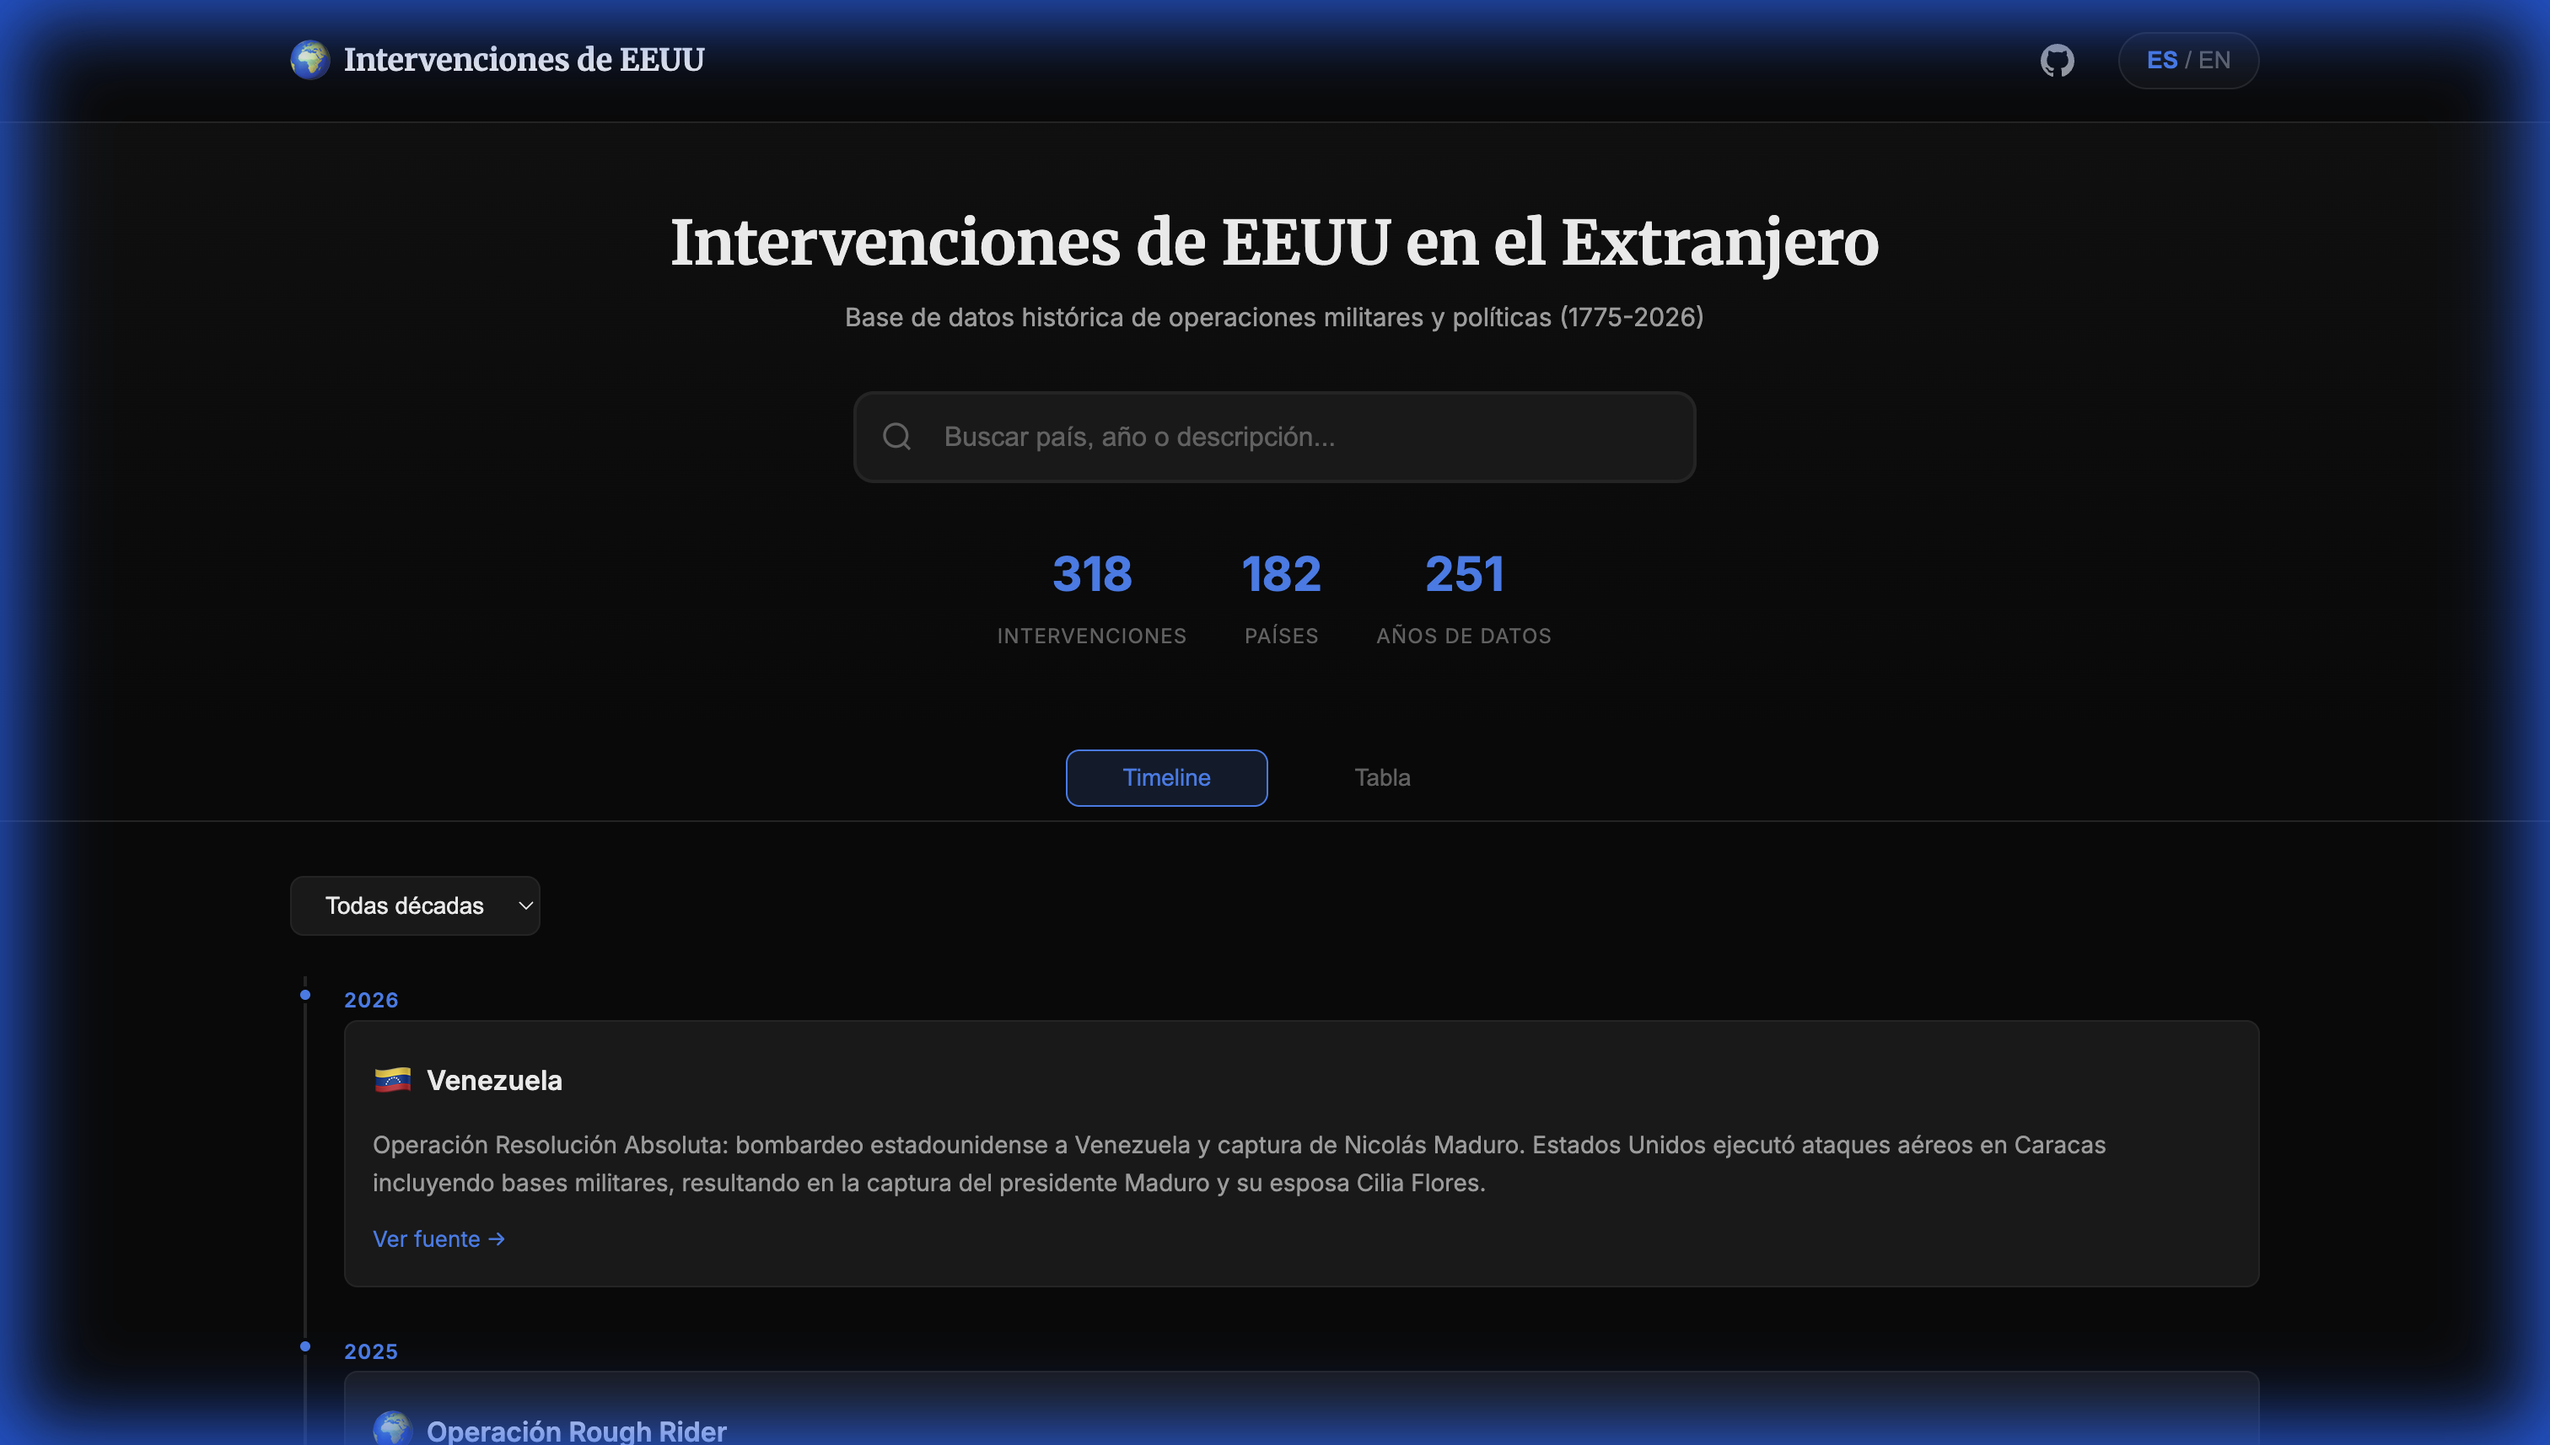
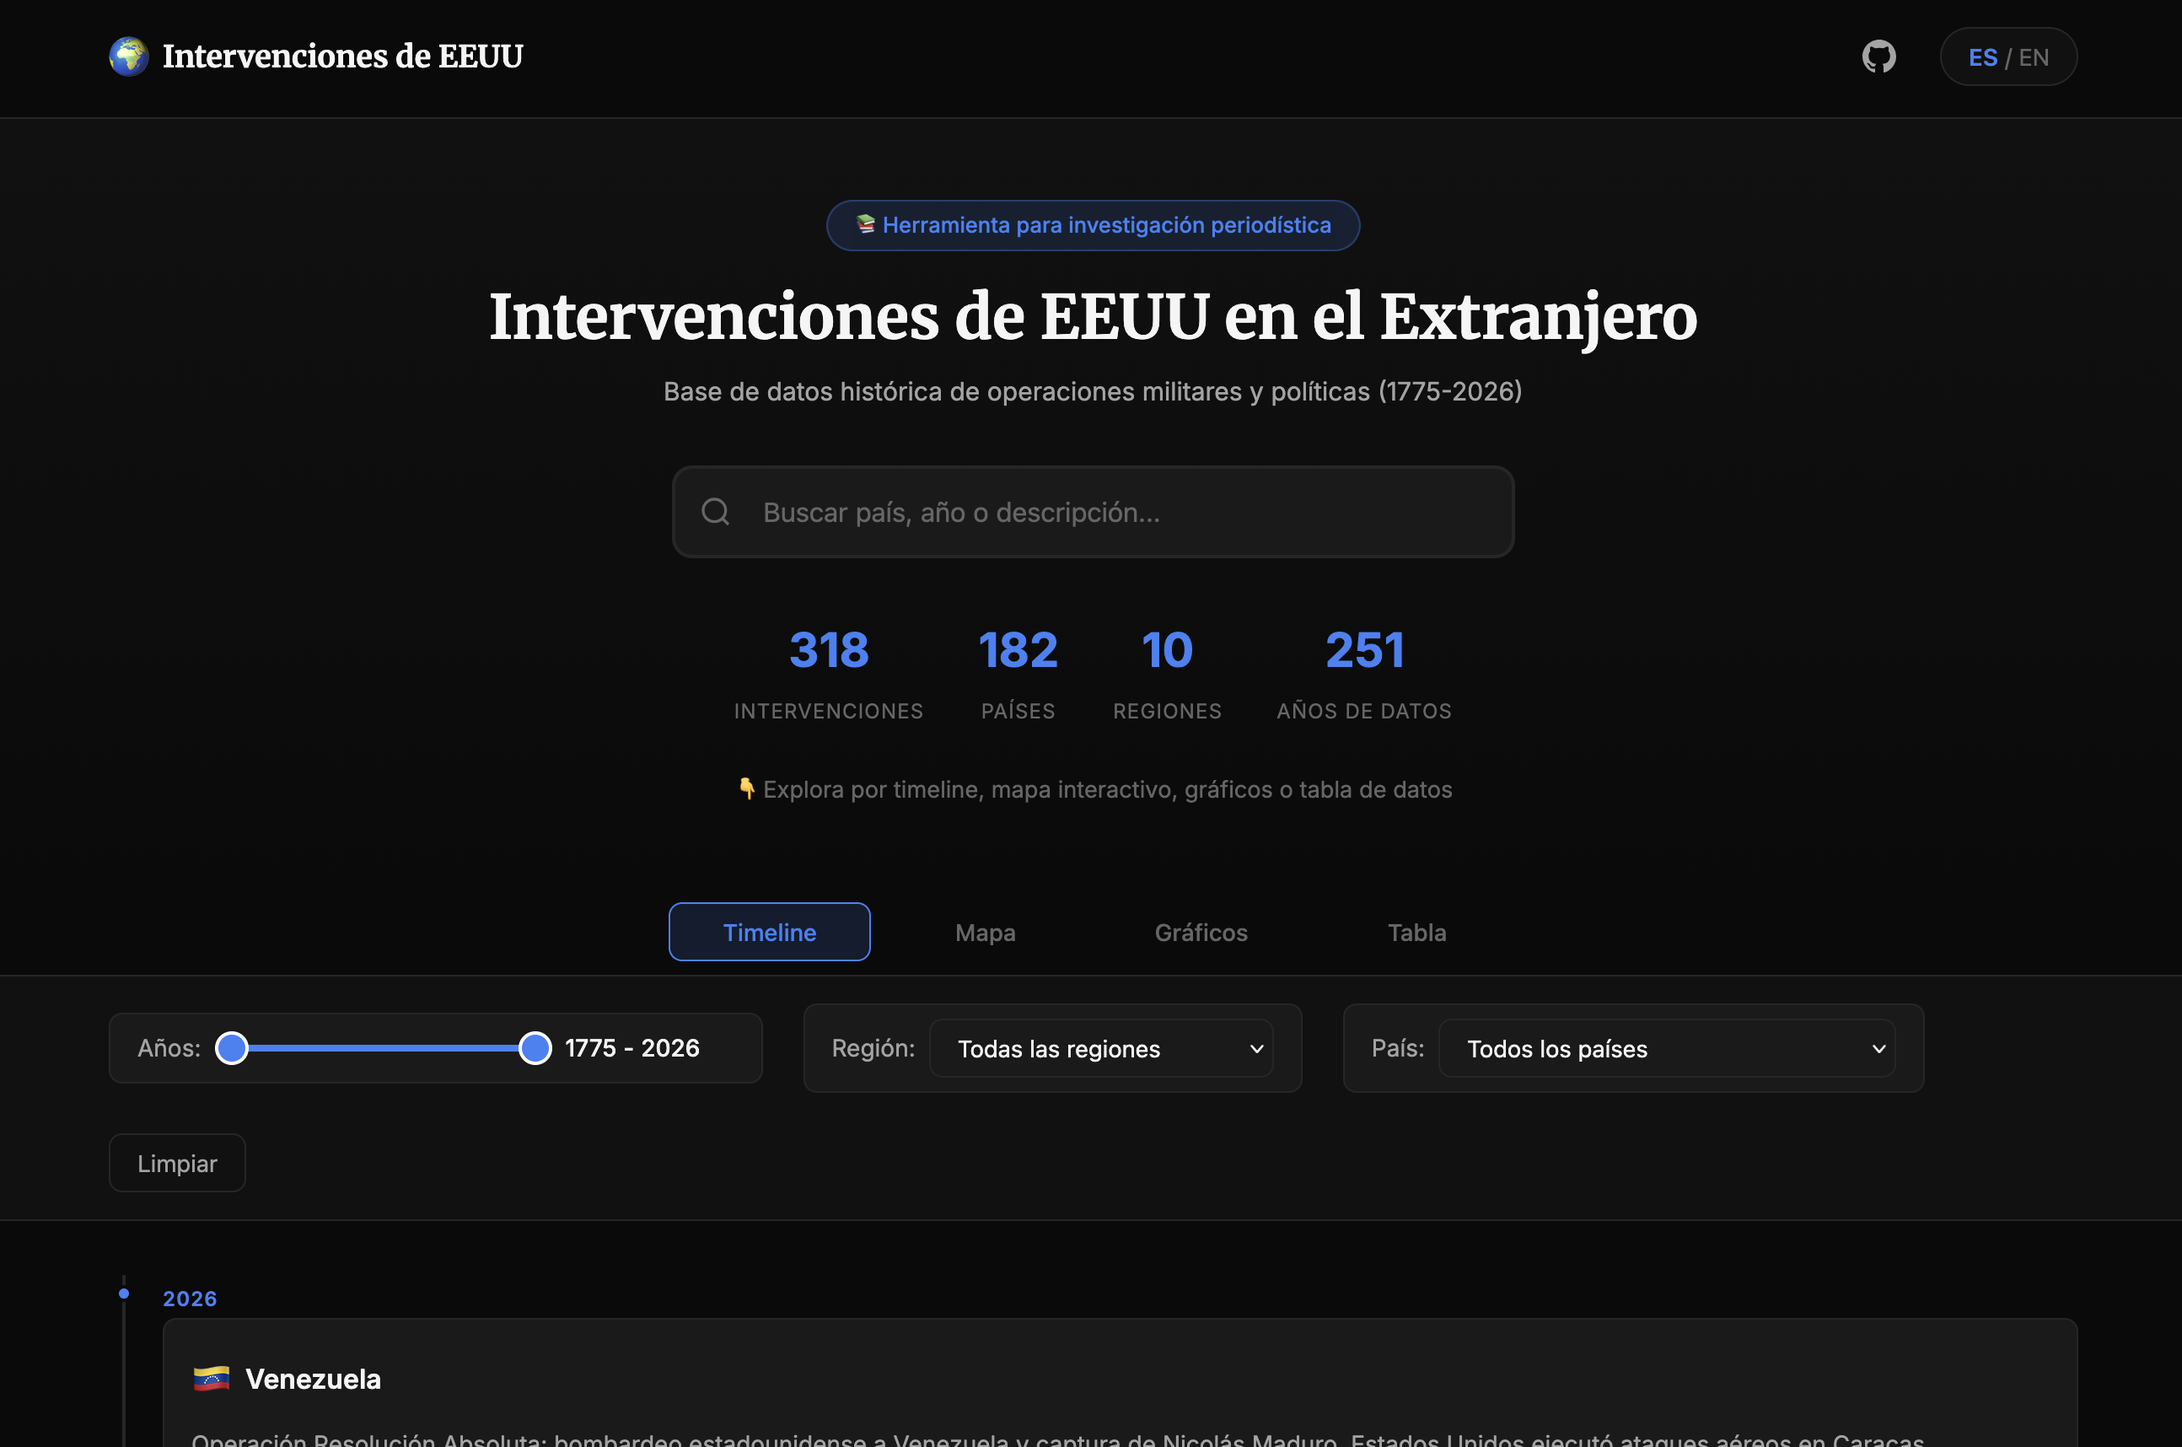
fixes and screenshot

diff --git a/app.js b/app.js
@@ -14,6 +14,7 @@ let translations = {};
 let currentPage = 1;
 let currentTab = 'timeline';
 const ITEMS_PER_PAGE = 10;
+let currentSort = { column: 'year_start', direction: 'desc' };
 
 // Expose currentLang globally for charts.js
 window.currentLang = currentLang;
@@ -283,6 +284,9 @@ function initializeFilters() {
     if (clearBtn) {
         clearBtn.addEventListener('click', clearFilters);
     }
+
+    // Initialize Table Headers Sorting
+    initTableSorting();
 }
 
 // Draggable Slider Logic
@@ -481,6 +485,11 @@ function applyFilters() {
 
         return true;
     });
+
+    // Apply Table Sort
+    if (typeof sortFilteredData === 'function') {
+        sortFilteredData();
+    }
 
     currentPage = 1;
     render();
@@ -967,4 +976,84 @@ function hideAutosuggest() {
 function highlightMatch(text, term) {
     const regex = new RegExp(`(${term})`, 'gi');
     return text.replace(regex, '<strong style="color: var(--accent);">$1</strong>');
+}
+
+// ================================
+// Table Sorting
+// ================================
+
+function initTableSorting() {
+    const headers = document.querySelectorAll('th.sortable');
+    headers.forEach(th => {
+        th.addEventListener('click', () => {
+            const column = th.dataset.sort;
+            handleSort(column);
+        });
+    });
+}
+
+function handleSort(column) {
+    // Toggle direction if clicking same column
+    if (currentSort.column === column) {
+        currentSort.direction = currentSort.direction === 'asc' ? 'desc' : 'asc';
+    } else {
+        currentSort.column = column;
+        currentSort.direction = 'asc'; // Default new sort to asc, or maybe desc for years?
+        // Let's stick to asc default, except maybe years? 
+        if (column === 'year_start' || column === 'year_end') {
+            currentSort.direction = 'desc';
+        }
+    }
+
+    // Update UI Icons
+    updateSortIcons();
+
+    // Re-sort data
+    sortFilteredData();
+
+    // Reset page and render
+    currentPage = 1;
+    render();
+}
+
+function updateSortIcons() {
+    document.querySelectorAll('th.sortable').forEach(th => {
+        const icon = th.querySelector('.sort-icon');
+        if (!icon) return;
+
+        if (th.dataset.sort === currentSort.column) {
+            icon.textContent = currentSort.direction === 'asc' ? '▲' : '▼'; // Up/Down arrows
+            th.classList.add('active-sort');
+        } else {
+            icon.textContent = '';
+            th.classList.remove('active-sort');
+        }
+    });
+}
+
+function sortFilteredData() {
+    filteredData.sort((a, b) => {
+        let valA, valB;
+
+        // Extract values based on column
+        if (currentSort.column === 'country') {
+            // Sort by localized country name
+            valA = (a.country?.[currentLang] || a.country?.es || '').toLowerCase();
+            valB = (b.country?.[currentLang] || b.country?.es || '').toLowerCase();
+        } else if (currentSort.column === 'description') {
+            valA = (a.description?.[currentLang] || a.description?.es || '').toLowerCase();
+            valB = (b.description?.[currentLang] || b.description?.es || '').toLowerCase();
+        } else if (currentSort.column === 'continent') {
+            valA = (a.continent?.[currentLang] || a.continent?.es || '').toLowerCase();
+            valB = (b.continent?.[currentLang] || b.continent?.es || '').toLowerCase();
+        } else {
+            // Default (years)
+            valA = a[currentSort.column];
+            valB = b[currentSort.column];
+        }
+
+        if (valA < valB) return currentSort.direction === 'asc' ? -1 : 1;
+        if (valA > valB) return currentSort.direction === 'asc' ? 1 : -1;
+        return 0;
+    });
 }

diff --git a/index.html b/index.html
@@ -321,11 +321,16 @@
                         </colgroup>
                         <thead>
                             <tr>
-                                <th data-i18n="table.yearStart">Inicio</th>
-                                <th data-i18n="table.yearEnd">Fin</th>
-                                <th data-i18n="table.continent">Continente</th>
-                                <th data-i18n="table.country">País/Lugar</th>
-                                <th data-i18n="table.description">Descripción</th>
+                                <th class="sortable" data-sort="year_start" data-i18n="table.yearStart">Inicio <span
+                                        class="sort-icon">▼</span></th>
+                                <th class="sortable" data-sort="year_end" data-i18n="table.yearEnd">Fin <span
+                                        class="sort-icon"></span></th>
+                                <th class="sortable" data-sort="continent" data-i18n="table.continent">Continente <span
+                                        class="sort-icon"></span></th>
+                                <th class="sortable" data-sort="country" data-i18n="table.country">País/Lugar <span
+                                        class="sort-icon"></span></th>
+                                <th class="sortable" data-sort="description" data-i18n="table.description">Descripción
+                                    <span class="sort-icon"></span></th>
                                 <th data-i18n="table.source">Fuente</th>
                             </tr>
                         </thead>

diff --git a/styles.css b/styles.css
@@ -734,6 +734,33 @@ body {
     white-space: nowrap;
 }
 
+th.sortable {
+    cursor: pointer;
+    user-select: none;
+    transition: background-color 0.2s, color 0.2s;
+}
+
+th.sortable:hover {
+    background: var(--bg-hover);
+    color: var(--text-primary);
+}
+
+.sort-icon {
+    display: inline-block;
+    margin-left: 0.5rem;
+    font-size: 0.8em;
+    width: 1em;
+    opacity: 0.5;
+}
+
+th.active-sort .sort-icon {
+    opacity: 1;
+}
+
+th.active-sort {
+    color: var(--text-primary);
+}
+
 .data-table td {
     padding: var(--space-md);
     border-bottom: 1px solid var(--border);
